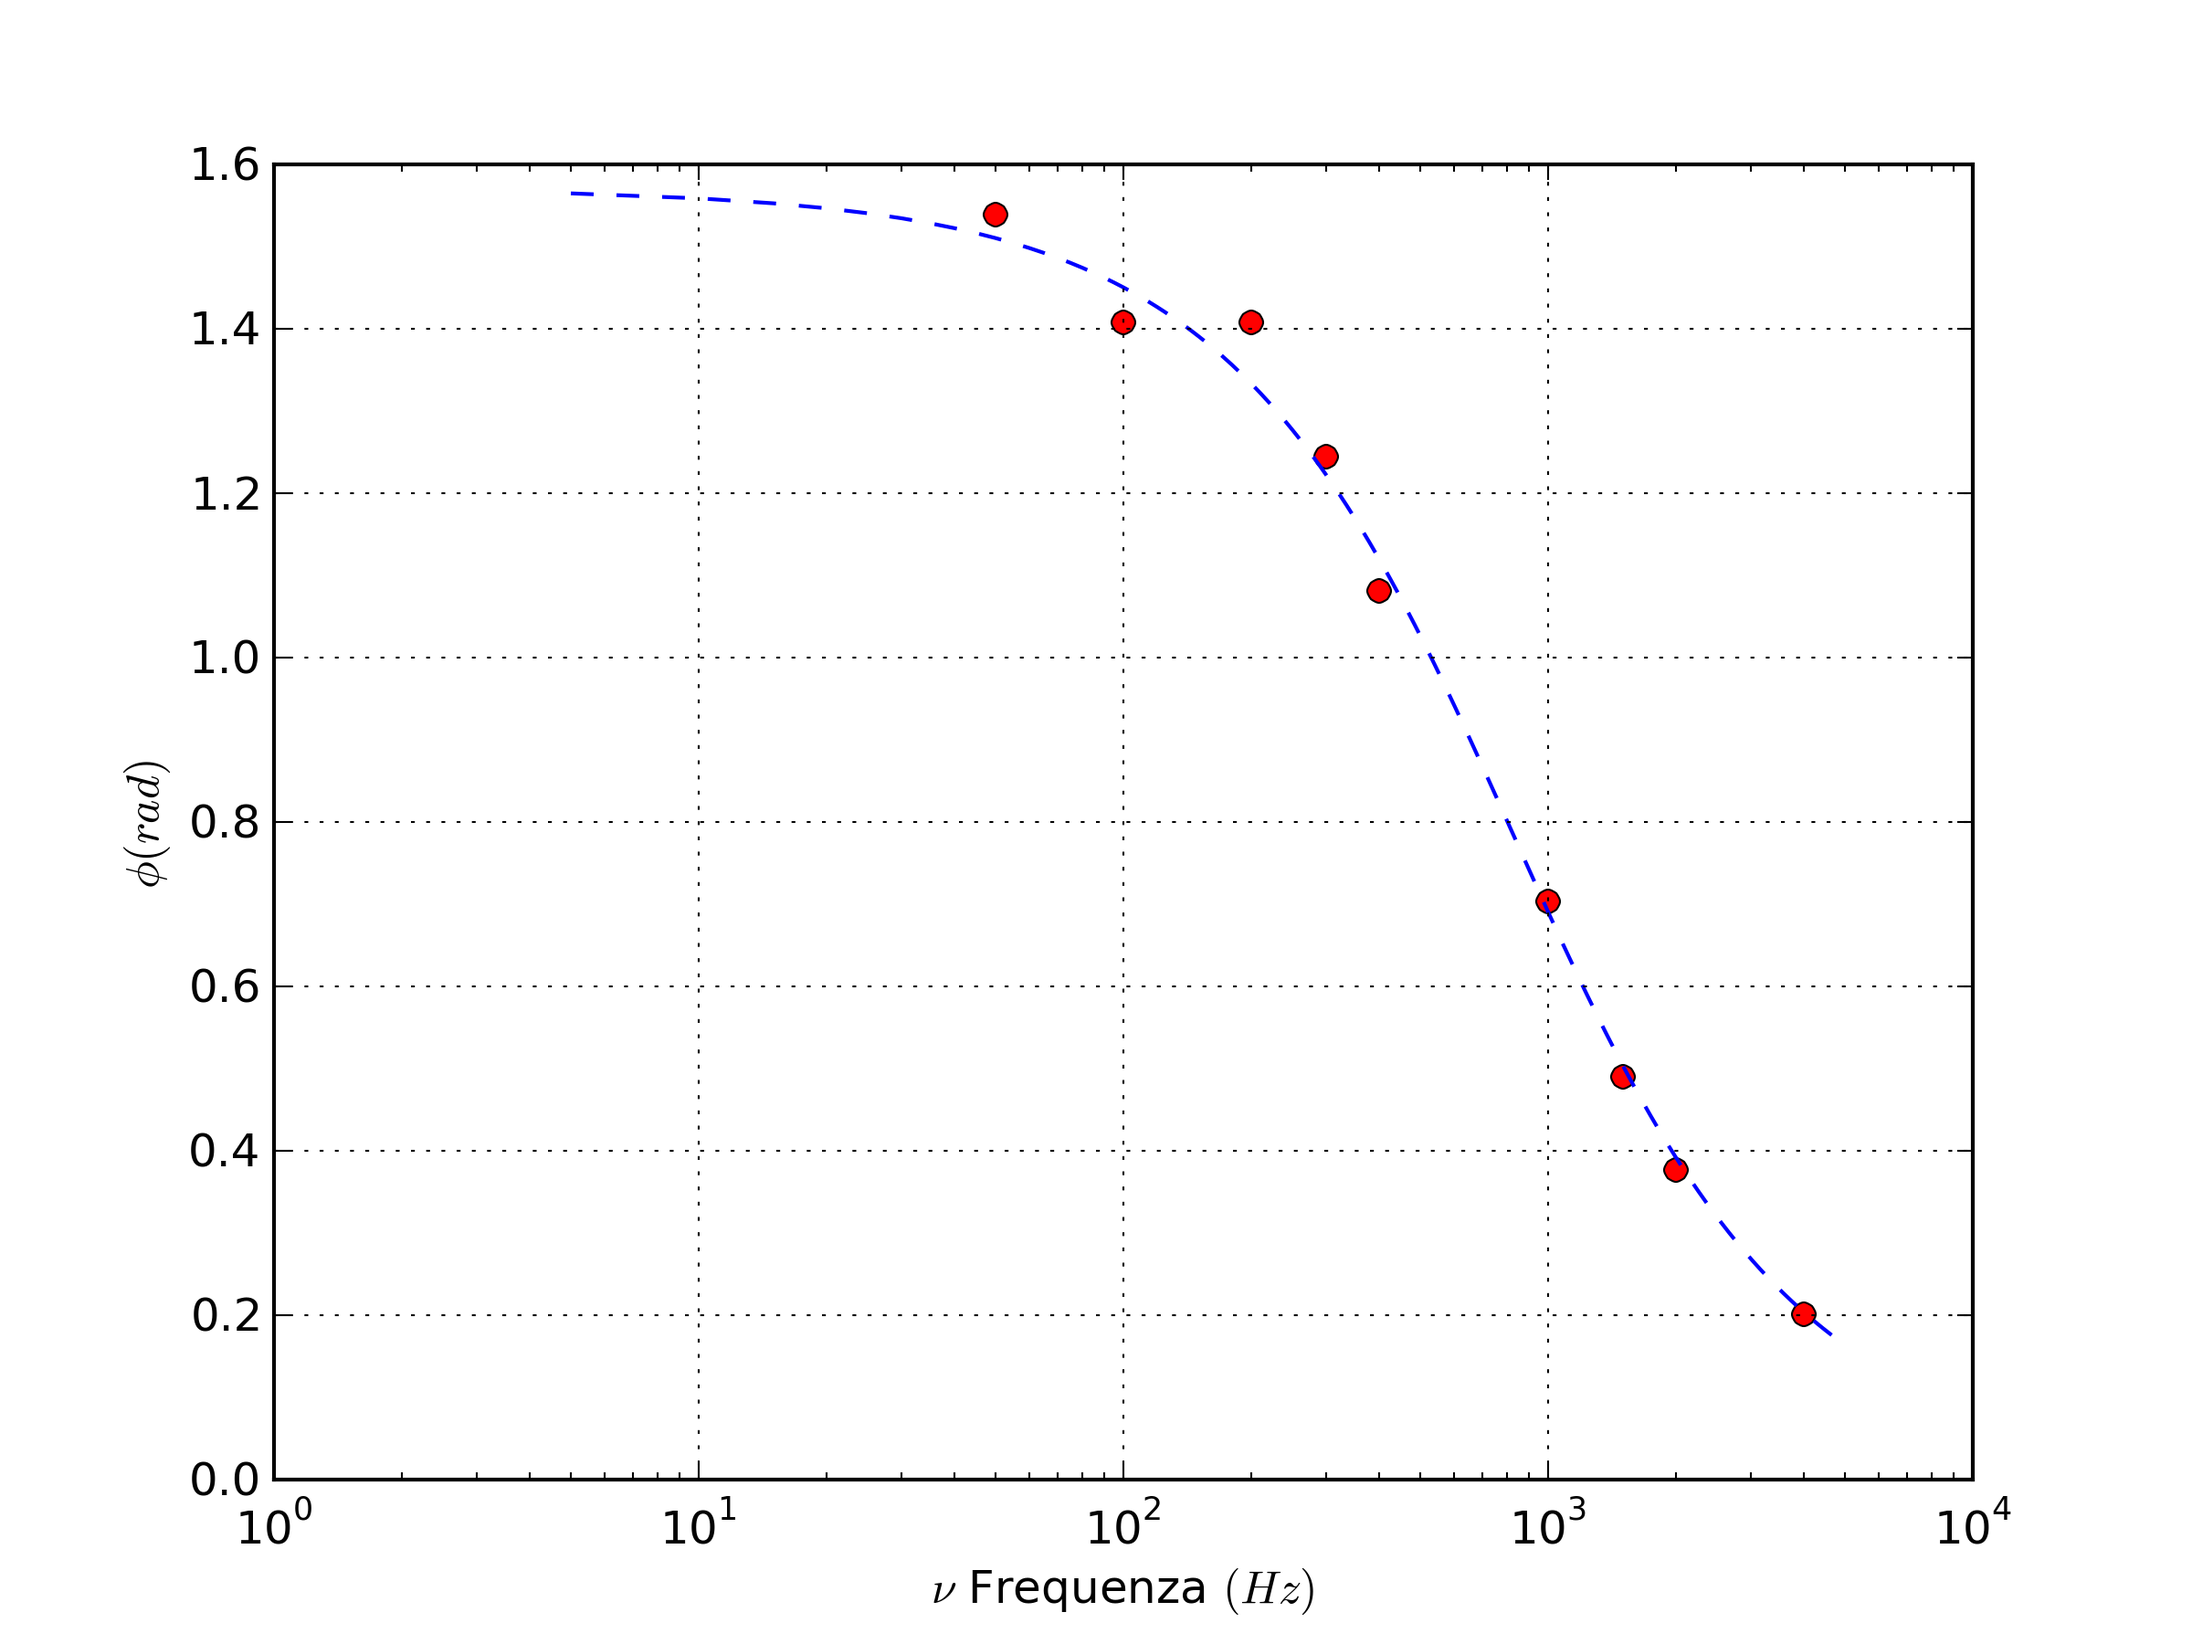
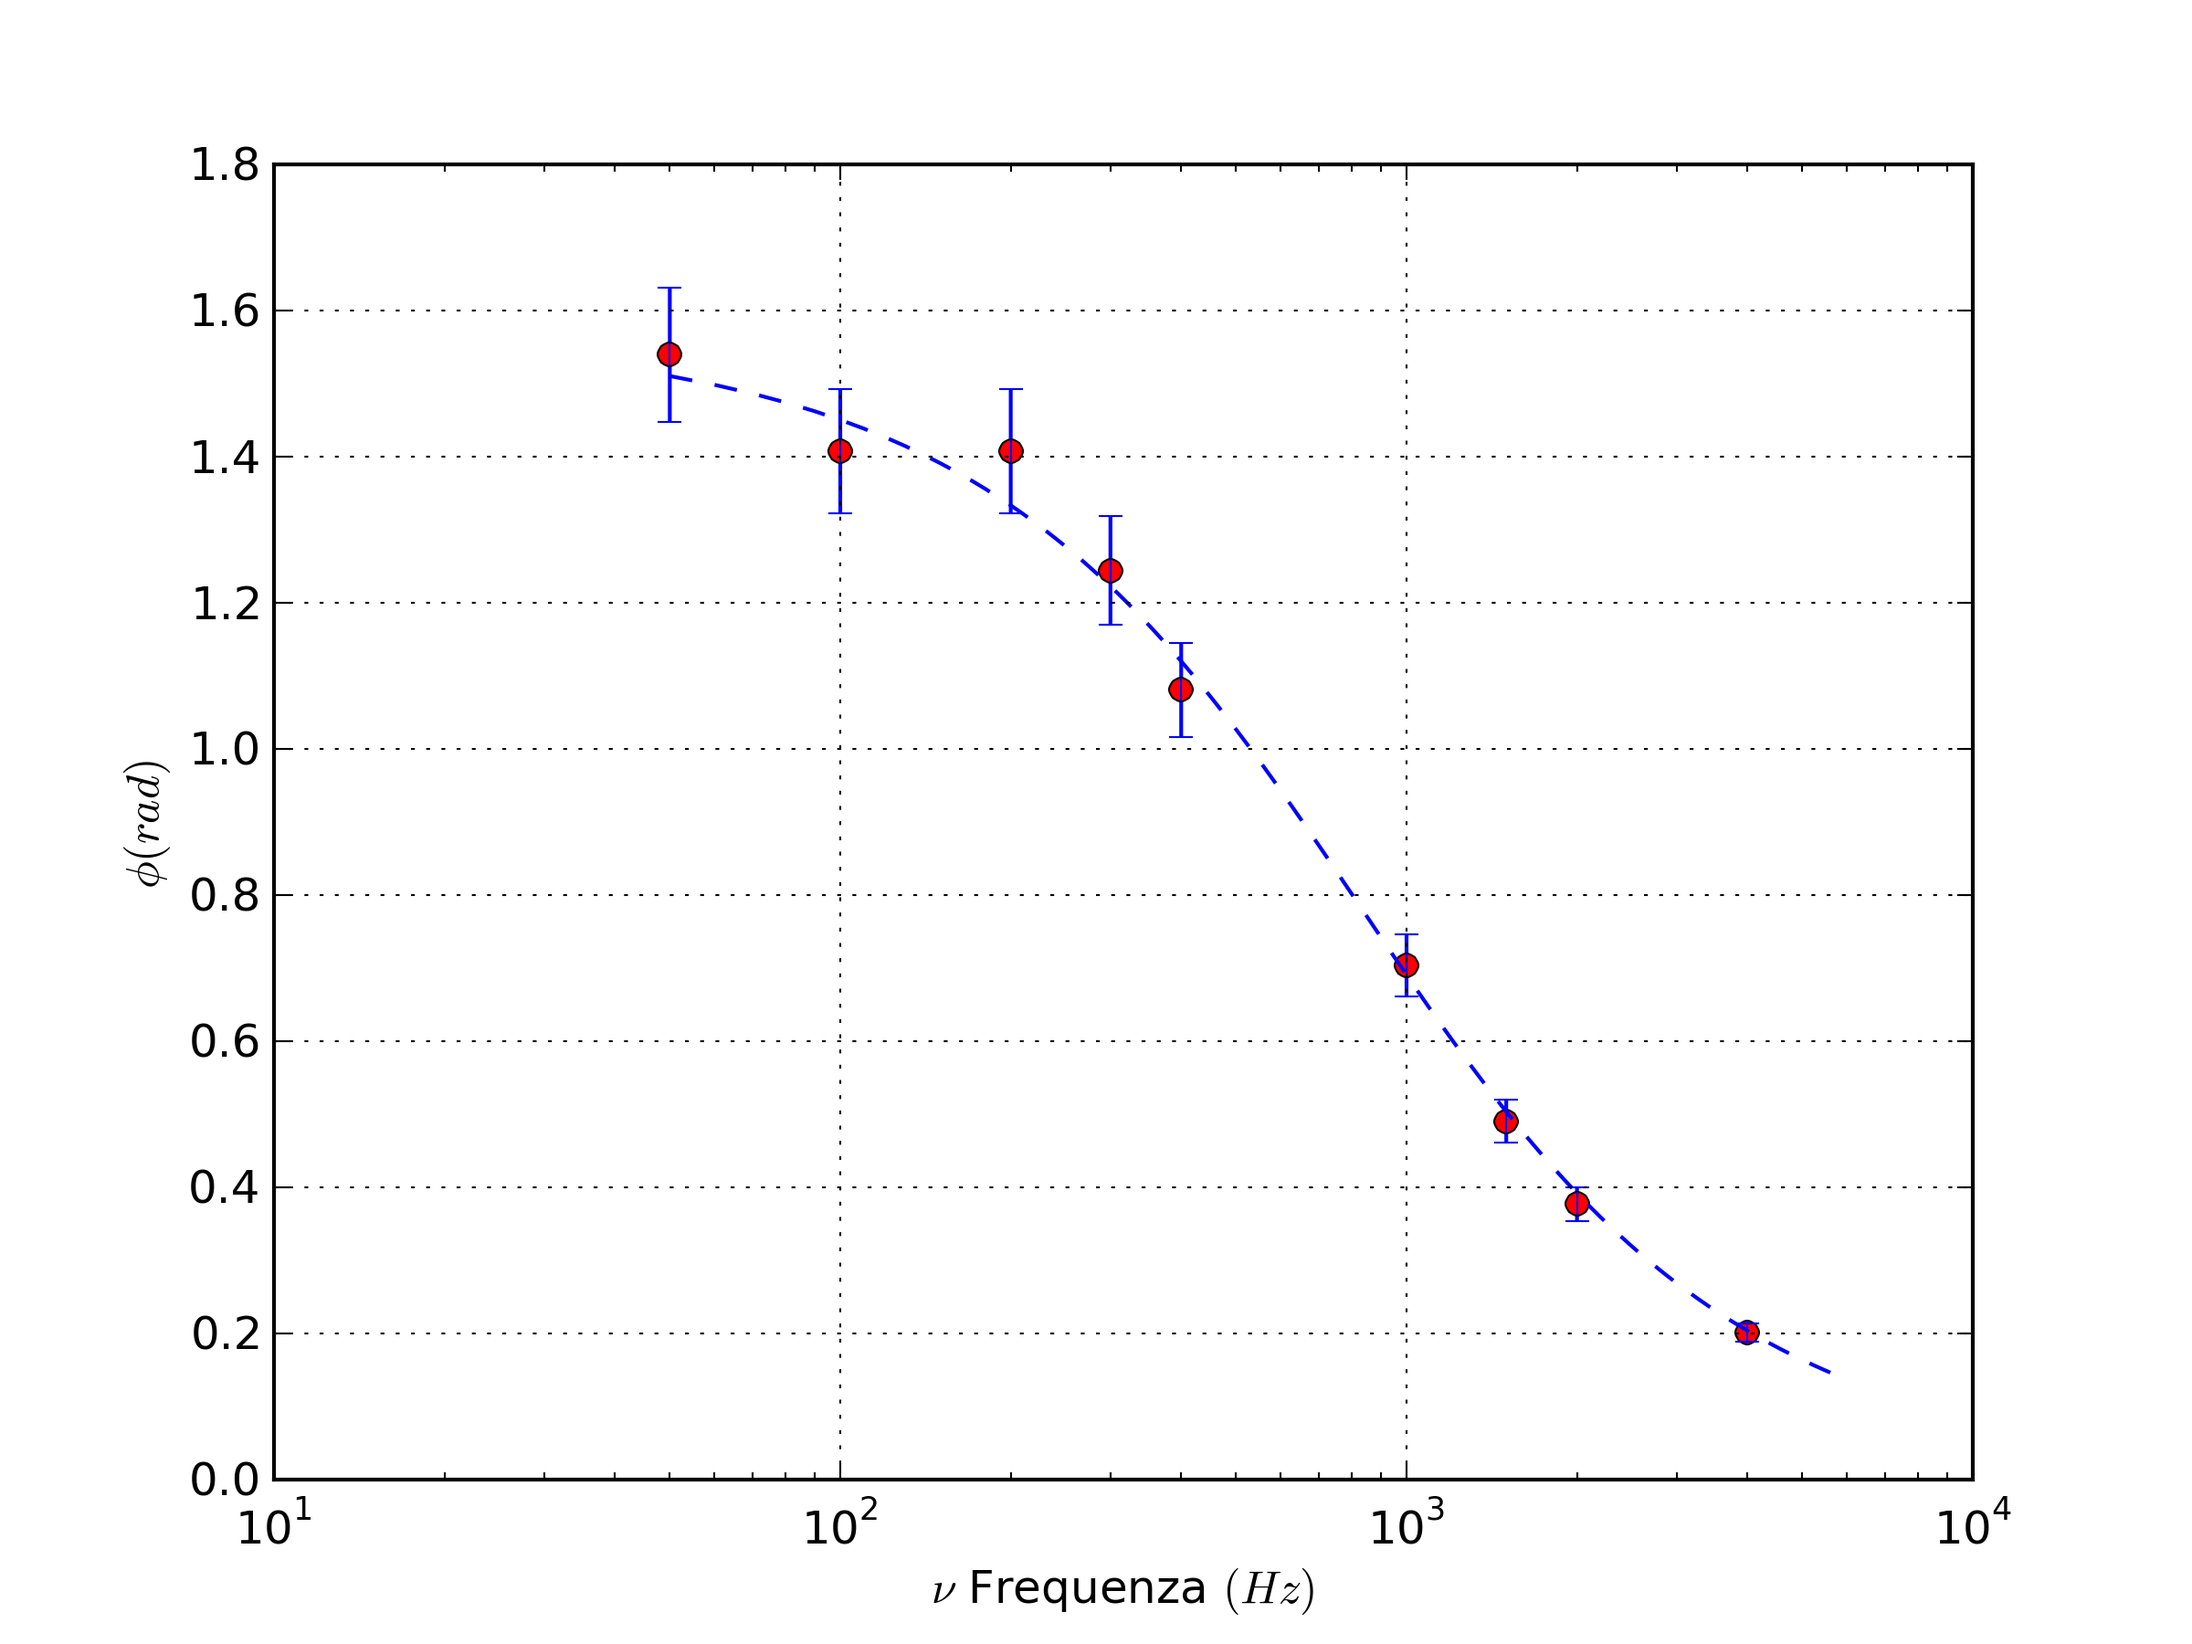
c3

diff --git a/c3.tex b/c3.tex
@@ -145,10 +145,11 @@ out = myodr.run()
 chi = chiquad(tempo,volt,fu1,ysigma=float(0.4),param=[out.beta[0],out.beta[1]])
  
 plt.clf()
-plt.errorbar(tempo,volt,yerr,np.zeros_like(yerr),'ro')
+plt.errorbar(tempo,volt,yerr,np.zeros_like(yerr),fmt=None)
+plt.plot(tempo,volt,'ro')
 xin = np.arange(min(tempo),1.5*max(tempo),10)
 yin = fu1(xin,out.beta[0],out.beta[1])
-plt.plot(xin,yin,'--')
+plt.plot(xin,yin,'b--')
 plt.ylabel(r"$D.d.p$ $(V)$ ")
 plt.xlabel(r"$Tempo$ $(\mu s)$")
 plt.grid(True)
@@ -231,50 +232,94 @@ $$\frac{V_{Ro}}{V_o} = \frac{R}{\sqrt{R^2+(\omega C)^{-2}}}$$
 
 rcf = np.recfromcsv('dati/C3/RCfun.csv',delimiter="\t")
 freq = rcf['frequenza']
+freq = freq.astype(float)
 volt = rcf['v_out']/rcf['v_in']
 yerr = 0.05
 xerr = 0
 
-print freq
-print volt
-
 var('x,C')
 def funz(x, C):
-    return 667/(((667)^2)+((1./x)^2*1/(2*pi*C)^2))^(1/2)
+    return 667/sqrt(667^2+(x*2*n(pi)*C)^(-2))
     
 def func(P,x):
-    return 667/(((667)^2)+((1./x)^2*1/(2*pi*P[0])^2))^(1/2)
+    return 667/sqrt(667^2+(x*2*n(pi)*P[0])^(-2))
     
 mymod = odr.Model(func)
 mydata = odr.RealData(freq,volt)
 
-myodr = odr.ODR(mydata, mymod, beta0=[20.,16.], maxit=5000)
+myodr = odr.ODR(mydata, mymod, beta0=[0.0000001], maxit=5000)
 out = myodr.run()
 
-chi = chiquad(freq,volt,funz,ysigma=float(0.05),param=[out.beta[0]])
+chi = chiquad(freq,volt,funz,ysigma=float(0.01),param=[out.beta[0]])
+
+chir = chi/(len(freq)-1)
  
  
 plt.clf()
 
 xin = np.arange(min(freq),1.5*max(freq),10)
 yin = funz(xin,out.beta[0])
-plt.plot(xin,yin,'--')
+plt.semilogx(freq,volt,'ro')
+plt.errorbar(freq,volt,yerr,xerr,fmt=None)
+plt.plot(xin,yin,'b--')
 plt.ylabel(r"$D.d.p$ $(V)$ ")
 plt.xlabel(r"$Tempo$ $(\mu s)$")
 plt.grid(True)
+np.set_printoptions(precision=4)
 plt.savefig("grafici/C3/ddpcond.png",dpi=300)
-
  
 \end{sagesilent}
 
 
-Dal fit otteniamo: $C=360 \cdot 10^{-9} F $ in ottimo accordo con il valore noto.
+Dal fit otteniamo: $C=365.42 \pm  6.11\ nF $ in ottimo accordo con il valore noto.
 
 \begin{center}
  \includegraphics[scale=0.70]{grafici/C3/ddpcond.png}
 \end{center}
 
-Su questo fit si ha un $\chi^2=0.637$, e un $\tilde{\chi}^2 = 0.091$, a riflettere un ottimo accordo.
+Su questo fit si ha un $\chi^2=\sage{round(chi,3)}$, e un $\tilde{\chi}^2 = \sage{round(chir,3)}$, a riflettere un ottimo accordo.
+
+
+\begin{sagesilent}
+
+deltaphi= rcf['frequenza']*rcf['tempo']*2*n(pi)*10^(-6)
+yerr = deltaphi*0.06
+xerr= 0
+
+var('x,C')
+def funz(x, C):
+    return arctan(1/(x*2*n(pi)*677*C))
+    
+def func(P,x):
+    return arctan(1/(x*2*n(pi)*677*P[0]))
+    
+mymod = odr.Model(func)
+mydata = odr.RealData(freq,deltaphi)
+
+myodr = odr.ODR(mydata, mymod, beta0=[0.0000001], maxit=5000)
+out = myodr.run()
+
+chi = chiquad(freq,deltaphi,funz,ysigma=float(0.1),param=[out.beta[0]])
+
+chir = chi/(len(freq)-1)
+ 
+ 
+plt.clf()
+
+xin = np.arange(min(freq),1.5*max(freq),10)
+yin = funz(xin,out.beta[0])
+plt.semilogx(freq,deltaphi,'ro')
+plt.errorbar(freq,deltaphi,yerr,xerr,fmt=None)
+plt.plot(xin,yin,'b--')
+plt.ylabel(r"$\phi (rad)$ ")
+plt.xlabel(r"$\nu$ Frequenza $(Hz)$")
+plt.grid(True)
+plt.savefig("grafici/C3/fasecap.png",dpi=300)
+out.pprint()
+omega = 1/(677*out.beta[0])
+\end{sagesilent}
+
+
 
 \begin{center}
  \includegraphics[scale=0.70]{grafici/C3/fasecap.png}
@@ -284,11 +329,12 @@ Ora interpolo i dati della $ \phi$ utilizzando la funzione:
 
 $$ \phi = \arctan \frac{1}{2\pi\nu C R} $$
 
-con C parametro libero. Tramite il test del $\chi^2$ verifico l'accordo con i nostri dati, ottenendo un $\tilde{\chi}^2 = 1.05$, a riflettere una probabilità del $43\%$ di ottenere un $\tilde{\chi}^2$ maggiore; dunque il risultato è accettabile.
+con C parametro libero. $C = 284.47 \pm 10.93\ nF$.
+Tramite il test del $\chi^2$ verifico l'accordo con i nostri dati, ottenendo un $\tilde{\chi}^2 = \sage{round(chir,3)}$, a riflettere una probabilità del $43\%$ di ottenere un $\tilde{\chi}^2$ maggiore; dunque il risultato è accettabile.
 \\
 
 
-La frequenza di taglio si definisce come $\omega_c = 1/RC$. Nel nostro caso $\omega_c = 4025\ Hz$. Il comportamento del circuito varia a seconda di quanto la nostra frequenza $\omega$ si avvicina al valore della frequenza di taglio. \\
+La frequenza di taglio si definisce come $\omega_c = \frac{1}{RC}$. Nel nostro caso $\omega_c = \sage{round(omega,2)}\ Hz$. Il comportamento del circuito varia a seconda di quanto la nostra frequenza $\omega$ si avvicina al valore della frequenza di taglio. \\
 Per frequenze molto basse il carattere capacitivo dell'impedenza domina e pertanto la caduta di potenziale si trova tutta ai capi del condensatore, e la fase $\phi \simeq -\frac{\pi}{2}$. Viceversa per frequenze molto alte, domina il comportamento resistivo e lo sfasamento diviene: $ \phi \simeq 0$. \\  
 Per $\omega \simeq \omega_c$, siamo nella transizione tra i due regimi e le impedenze si equivalgono. La fase diviene: $ \phi \simeq -\pi/4$.  \\
 
@@ -335,11 +381,6 @@ $$ \phi = \arctan \frac{2\pi\nu L}{R} $$
 dove L è il parametro libero da stimare.
 
 \begin{sagesilent}
-import numpy as np
-import matplotlib.pyplot as plt
-
-import types
-chiquad = types.FunctionType(load("sobj/chiquad.sobj"), globals())
 
 #Fit del ddp in funzione della frequenza per l'induttore
 dati3 = load("sobj/C3-Induttore2.sobj", verbose=False)
@@ -379,12 +420,52 @@ plt.plot(xsp, ysp, 'b--')
 plt.grid(True)
 plt.ylabel(r"$\frac{V_{out}}{V_{in}}$ ")
 plt.xlabel(r"Frequenza $\nu$ - $(Hz)$")
-plt.savefig("grafici/C3-faseindu.png", dpi=300)
+plt.savefig("grafici/C3/RLddp.png", dpi=300)
 
 lstring = "%.4G" % (myout.beta[0]*1000)
 lerrorstring = "%.2G" % (myout.sd_beta[0]*1000)
 \end{sagesilent}
 
+\begin{center}
+ \includegraphics[scale=0.70]{grafici/C3/faseindu.png}
+\end{center}
+
+rlt = np.recfromcsv('dati/C3/RLfun.csv')
+deltaphi= rcf['frequenza']*rcf['tempo']*2*n(pi)*10^(-6)
+yerr = deltaphi*0.06
+xerr= 0
+
+var('x,C')
+def funz(x, L):
+    return arctan(x*2*n(pi)*677/L)
+    
+def func(P,x):
+    return arctan(x*2*n(pi)*677/P[0])
+    
+mymod = odr.Model(func)
+mydata = odr.RealData(freq,deltaphi)
+
+myodr = odr.ODR(mydata, mymod, beta0=[0.0001], maxit=5000)
+out = myodr.run()
+
+chi = chiquad(freq,deltaphi,funz,ysigma=float(0.1),param=[out.beta[0]])
+
+chir = chi/(len(freq)-1)
+ 
+ 
+plt.clf()
+
+xin = np.arange(min(freq),1.5*max(freq),10)
+yin = funz(xin,out.beta[0])
+plt.semilogx(freq,deltaphi,'ro')
+plt.errorbar(freq,deltaphi,yerr,xerr,fmt=None)
+plt.plot(xin,yin,'b--')
+plt.ylabel(r"$\phi (rad)$ ")
+plt.xlabel(r"$\nu$ Frequenza $(Hz)$")
+plt.grid(True)
+plt.savefig("grafici/C3/fasecap.png",dpi=300)
+out.pprint()
+omega = 1/(677*out.beta[0])
 
 Da questo fit, otteniamo una $L=\sage{lstring}\pm\sage{lerrorstring}$ mH, e un $\chi^2 = \sage{round(chiquadrato,3)} $, considerando una $\sigma_{y_i} = 2 \pi \nu_i \sigma_{t}$, dove  per $\sigma_t = 2 \mu s$. L'incertezza sulla frequenza è trascurabile, e per questo motivo abbiamo propagato l'incertezza solo su $\sigma_t$. Poichè $\sigma_{y_i}$ è proporzionale alla frequenza, l'incertezza della misura di $\phi$ sulle frequenze più elevate diviene dunque rilevante rendendo possibile accettare un $\chi^2$ così piccolo, pur per un fit che, graficamente, non sembra in buon accordo. Il grafico è inoltre logaritmico, e accentua questo effetto. Le stesse considerazioni valgono per il grafico della $\phi$ per il circuito RC.
 \\
